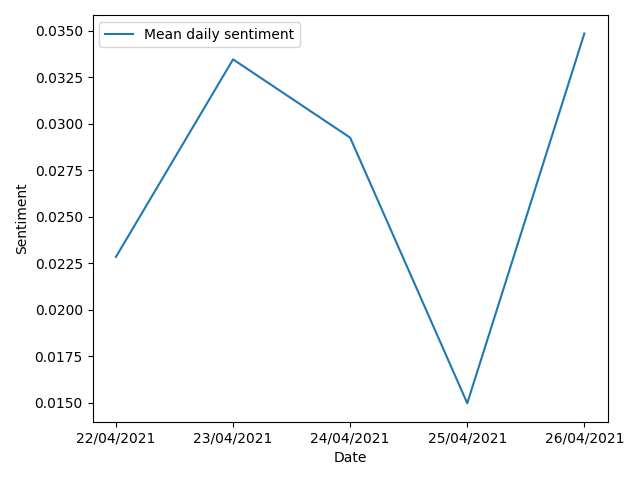
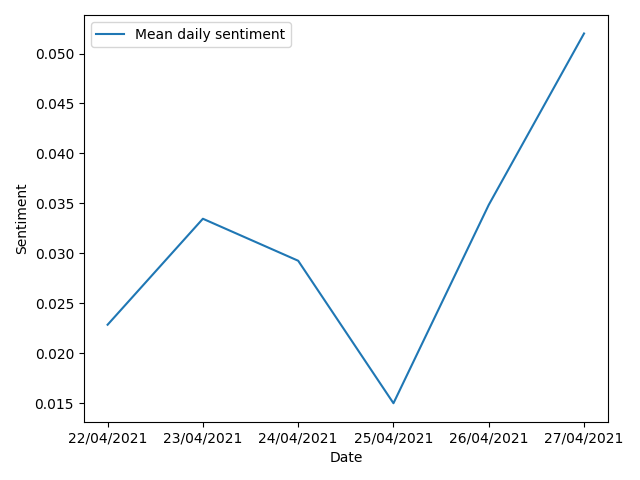
Automatic update (gitControl.py)

diff --git a/README.md b/README.md
@@ -3,7 +3,7 @@
 World news sentiment data, updated at 07:00 daily.
 
 **Started:** `22/04/2021`<br>
-**Updated:** `26/04/2021, 07:00:36`<br>
+**Updated:** `27/04/2021, 07:00:39`<br>
 **Sources:** `BBC News, Sky, Reuters, r/worldnews, r/news`
 
 <img src="https://user-images.githubusercontent.com/25552804/115932698-55adef00-a485-11eb-82bb-2265c0821ca0.png" width="20%" height="20%">

diff --git a/docs/index.md b/docs/index.md
@@ -3,7 +3,7 @@
 World news sentiment data, updated at 07:00 daily.
 
 **Started:** `22/04/2021`<br>
-**Updated:** `26/04/2021, 07:00:36`<br>
+**Updated:** `27/04/2021, 07:00:39`<br>
 **Sources:** `BBC News, Sky, Reuters, r/worldnews, r/news`
 
 <img src="https://user-images.githubusercontent.com/25552804/115932698-55adef00-a485-11eb-82bb-2265c0821ca0.png" width="20%" height="20%">
